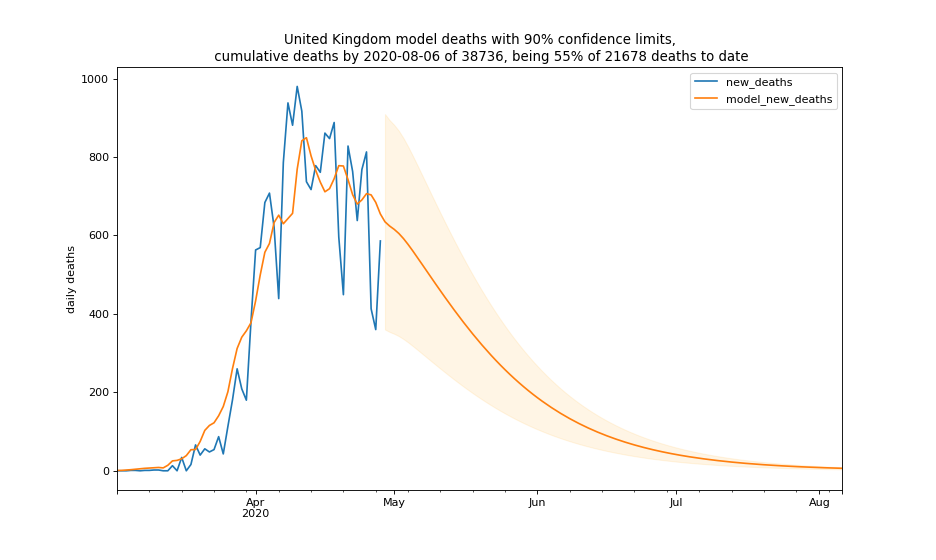
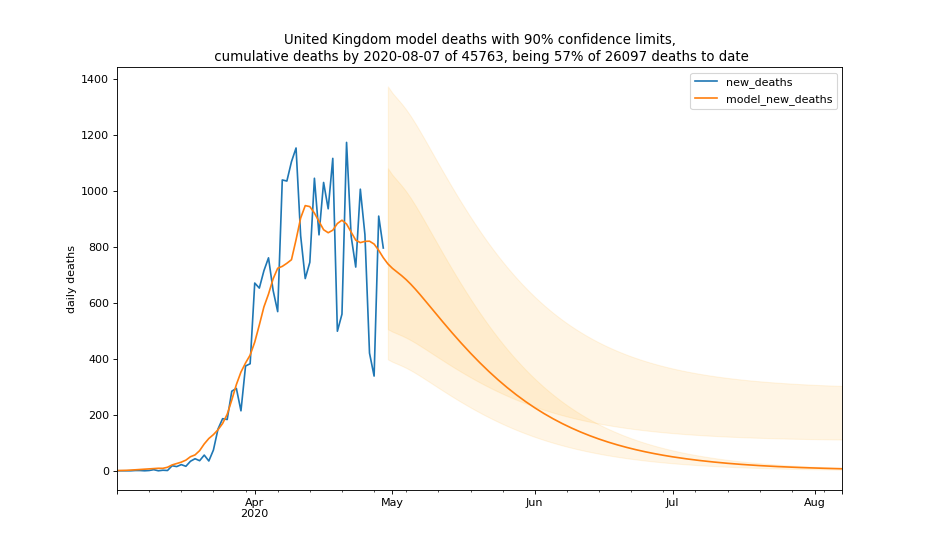
added data warning for negative new cases, changed confidence interval plots to show less confidence with time so as not to mislead

diff --git a/COVID19.py b/COVID19.py
@@ -105,6 +105,16 @@ def prepare_data(country='United Kingdom', lockdown_date = None, URLnotfile = Tr
     df['new_cases_rate'] = df['new_cases'] / (df['cases'].shift(1)+1e-10)
     df.at[df.index[0],'new_cases_rate']=0.0
  
+    negative_rates_list = list(df.loc[df['new_cases_rate']<0].index)
+    negative_rates_list = [d.strftime('%Y-%m-%d') for d in negative_rates_list]
+    if negative_rates_list: #warn
+        print(); print('--------------------------------------------------------------------')
+        print('WARNING: check negative growth in new cases for dates',negative_rates_list)
+        print('         -> new cases and growth rates for these dates have been set to zero')
+        print(); print('--------------------------------------------------------------------')
+        df.at[df['new_cases']<0,'new_cases']=0.0        
+        df.at[df['new_cases_rate']<0,'new_cases_rate']=0.0   
+    
     return df
 
 #---------------------------------------------------------------------------------
@@ -349,7 +359,7 @@ def find_median_halflife_days(new_cases_df, HLD_list = [2,3,4,5,6,7,8,9,10]):
         fit_dict[HLD]={'k': k, 'beta': beta}
     beta_list = [fit_dict[x]['beta'] for x in HLD_list]
     median_beta = np.median(beta_list)
-    median_HLD = [k for k in fit_dict.keys() if fit_dict[k]['beta']==median_beta]
+    median_HLD = [k for k in fit_dict.keys() if abs(fit_dict[k]['beta']-median_beta)<1e-5]
     median_HLD = median_HLD[0]
     median_halflife_days = median_HLD
 
@@ -424,13 +434,15 @@ def compare_new_cases_rate_beta_test(country_list, last_n_days=10):
 if __name__ == "__main__":
     
     original_DPI = plt.rcParams["figure.dpi"]
-    plt.rcParams["figure.dpi"] = 80  #higher DPI plots
+    plt.rcParams["figure.dpi"] = 100  #higher DPI plots
     
     selected_country = 'United Kingdom'
     #selected_country = 'Italy'
     #selected_country = 'Spain'
     #selected_country = 'US'
     #selected_country = 'Sweden'
+    #selected_country = 'Brazil'
+    #selected_country = 'Germany'
     
     lockdown_date = None #for now we do not limit fit to beyond lockdown date
     
@@ -526,7 +538,7 @@ if __name__ == "__main__":
     
     
     #====================== plot evolution of beta parameters across countries
-    country_list = ['United Kingdom','Italy','Spain','US','Sweden'] #, 'Germany']
+    country_list = ['United Kingdom','Italy','Spain','US','Sweden','Brazil']
     summary_dict = compare_new_cases_rate_beta(country_list=country_list, last_n_days=20)
     beta_df = pd.DataFrame()
     for country in country_list:
@@ -611,10 +623,17 @@ if __name__ == "__main__":
     plot_df.at[mask,'model_new_cases']= proj_df.loc[mask,'new_cases']
     plot_df.at[~mask,'new_deaths'] = proj_df.loc[~mask,'new_deaths']
     plot_df.at[~mask,'new_cases'] = proj_df.loc[~mask,'new_cases']
+    
     title_str = selected_country+' model deaths with 90% confidence limits,'+'\n '+title_text
     ax = plot_df[['new_deaths','model_new_deaths']].iloc[40:].plot(title=title_str, figsize=(11.7,7))
     ax.fill_between(plot_df['5% bound new_deaths'].index, plot_df['5% bound new_deaths'], plot_df['95% bound new_deaths'], 
                     color='orange', alpha=.1)   
+
+    #indicate diminishing confidence in the confidence intervals
+    for x in np.arange(-5,-95,-2):
+        ax.fill_between(plot_df['5% bound new_deaths'].index[x:], plot_df['5% bound new_deaths'].tail(x*-1), plot_df['95% bound new_deaths'].tail(x*-1), 
+                    color='white', alpha=.15)
+#    
     plt.ylabel('daily deaths')
     image_path = pd.datetime.now().date().strftime('%Y%m%d')+'/'
     image_path = 'C:/Users/Mark/Documents/Python/code/covid19/' +image_path
